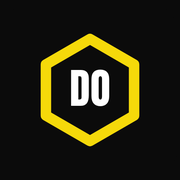
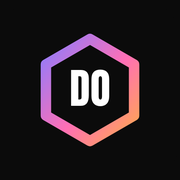
Brand palette 'Aurora': electric violet to pink to tangerine replaces the yellow
Claude-Session: https://claude.ai/code/session_01B44VbnWuYpjyJ8VHvCZvgG

Changed region(s): [[0.2222, 0.1667, 0.7778, 0.8333]]

diff --git a/css/styles.css b/css/styles.css
@@ -5,10 +5,10 @@
   --text: #0b0b0b;
   --muted: #5f5f58;
   --border: #e4e3dc;
-  --primary: #0b0b0b;
-  --primary-hover: #262626;
-  --primary-soft: rgba(245, 217, 10, .28);
-  --on-primary: #f5d90a;
+  --primary: #5b47ff;
+  --primary-hover: #4a36f0;
+  --primary-soft: rgba(91, 71, 255, .11);
+  --on-primary: #ffffff;
   --danger: #c0352b;
   --danger-soft: #fdeceb;
   --success: #15803d;
@@ -21,17 +21,17 @@
   --violet-soft: #efe7fe;
   --sidebar-bg: #ffffff;
   --sidebar-text: #262626;
-  --sidebar-active: rgba(245, 217, 10, .35);
-  --hero-from: #f5d90a;
-  --hero-to: #e5c700;
+  --sidebar-active: rgba(91, 71, 255, .1);
+  --hero-from: #8b7cff;
+  --hero-to: #ff6fb5;
   --shadow: 0 1px 2px rgba(15, 27, 42, .04), 0 2px 8px rgba(15, 27, 42, .05);
   --shadow-lg: 0 8px 28px rgba(15, 27, 42, .1);
   --radius: 18px;
-  --chart-line: #0b0b0b;
-  --brand-yellow: #f5d90a;
-  --logo-hex: #0b0b0b;
+  --chart-line: #5b47ff;
+  --brand-yellow: #5b47ff;
+  --logo-hex: #5b47ff;
   --logo-text: #0b0b0b;
-  --m-carbs-c: #d4a900;
+  --m-carbs-c: #1c7ed6;
   color-scheme: light;
 }
 
@@ -43,10 +43,10 @@
     --text: #f5f5f4;
     --muted: #a3a39e;
     --border: #2a2a2a;
-    --primary: #f5d90a;
-    --primary-hover: #ffe745;
-    --primary-soft: rgba(245, 217, 10, .13);
-    --on-primary: #0b0b0b;
+    --primary: #8b7cff;
+    --primary-hover: #a99dff;
+    --primary-soft: rgba(139, 124, 255, .13);
+    --on-primary: #ffffff;
     --danger: #f87171;
     --danger-soft: rgba(248, 113, 113, .13);
     --success: #4ade80;
@@ -59,15 +59,15 @@
     --violet-soft: rgba(183, 148, 246, .14);
     --sidebar-bg: #0f0f0f;
     --sidebar-text: #d6d6d3;
-    --sidebar-active: rgba(245, 217, 10, .13);
+    --sidebar-active: rgba(139, 124, 255, .13);
     --hero-from: #1d1d1d;
     --hero-to: #0b0b0b;
     --shadow: none;
     --shadow-lg: 0 10px 30px rgba(0, 0, 0, .45);
-    --chart-line: #f5d90a;
-    --logo-hex: #f5d90a;
+    --chart-line: #8b7cff;
+    --logo-hex: #8b7cff;
     --logo-text: #ffffff;
-    --m-carbs-c: #f5d90a;
+    --m-carbs-c: #5bc8ff;
     color-scheme: dark;
   }
 }
@@ -79,10 +79,10 @@
   --text: #f5f5f4;
   --muted: #a3a39e;
   --border: #2a2a2a;
-  --primary: #f5d90a;
-  --primary-hover: #ffe745;
-  --primary-soft: rgba(245, 217, 10, .13);
-  --on-primary: #0b0b0b;
+  --primary: #8b7cff;
+  --primary-hover: #a99dff;
+  --primary-soft: rgba(139, 124, 255, .13);
+  --on-primary: #ffffff;
   --danger: #f87171;
   --danger-soft: rgba(248, 113, 113, .13);
   --success: #4ade80;
@@ -95,15 +95,15 @@
   --violet-soft: rgba(183, 148, 246, .14);
   --sidebar-bg: #0f0f0f;
   --sidebar-text: #d6d6d3;
-  --sidebar-active: rgba(245, 217, 10, .13);
+  --sidebar-active: rgba(139, 124, 255, .13);
   --hero-from: #1d1d1d;
   --hero-to: #0b0b0b;
   --shadow: none;
   --shadow-lg: 0 10px 30px rgba(0, 0, 0, .45);
-  --chart-line: #f5d90a;
-  --logo-hex: #f5d90a;
+  --chart-line: #8b7cff;
+  --logo-hex: #8b7cff;
   --logo-text: #ffffff;
-  --m-carbs-c: #f5d90a;
+  --m-carbs-c: #5bc8ff;
   color-scheme: dark;
 }
 
@@ -156,7 +156,7 @@ h3 { font-size: 1rem; }
 .hexlogo .hx-in { fill: var(--logo-text); font: 400 36px/1 "Anton", "Barlow Condensed", Impact, sans-serif; letter-spacing: -.5px; }
 .brand-name { display: flex; flex-direction: column; min-width: 0; gap: 3px; }
 .brand-name > span { font: 400 1.3rem/1 "Anton", "Barlow Condensed", Impact, sans-serif; text-transform: uppercase; letter-spacing: .01em; white-space: nowrap; overflow: hidden; text-overflow: ellipsis; }
-.brand-name small { font: 700 .68rem/1.2 "Barlow Condensed", sans-serif; color: var(--brand-yellow, #f5d90a); letter-spacing: .32em; text-transform: uppercase; }
+.brand-name small { font: 700 .68rem/1.2 "Barlow Condensed", sans-serif; color: var(--brand-yellow, #8b7cff); letter-spacing: .32em; text-transform: uppercase; }
 :root[data-theme="light"] .brand-name small { color: var(--text); }
 @media (prefers-color-scheme: light) { :root:not([data-theme="dark"]) .brand-name small { color: var(--text); } }
 
@@ -609,7 +609,7 @@ dialog form { display: flex; flex-direction: column; max-height: calc(100vh - 48
 #toast.show { opacity: 1; transform: translateX(-50%) translateY(0); }
 #toast { display: flex; align-items: center; gap: 14px; width: max-content; }
 #toast.show.has-action { pointer-events: auto; }
-.toast-action { appearance: none; border: 0; background: none; color: #f5d90a; font: inherit; font-weight: 800; cursor: pointer; padding: 2px 4px; }
+.toast-action { appearance: none; border: 0; background: none; color: #8b7cff; font: inherit; font-weight: 800; cursor: pointer; padding: 2px 4px; }
 .btn.pay { white-space: nowrap; }
 
 .pay-row { display: flex; align-items: center; gap: 12px; }
@@ -908,7 +908,7 @@ body.q-page { min-height: 100vh; }
 
 /* ---------- Objetivos de la dieta ---------- */
 /* Colores de los macros: los mismos tonos de la app (turquesa, azul y violeta suaves). */
-:root { --m-carbs: var(--m-carbs-c, #f5d90a); --m-protein: var(--info); --m-fat: var(--violet); }
+:root { --m-carbs: var(--m-carbs-c, #8b7cff); --m-protein: var(--info); --m-fat: var(--violet); }
 .diet-panel { padding-top: 4px; padding-bottom: 4px; }
 .diet-sec { padding: 18px 0; }
 .diet-sec + .diet-sec { border-top: 1px solid var(--border); }
@@ -1038,7 +1038,7 @@ button.diet-row:hover { color: var(--primary); }
   body.printing #print-root { display: block; }
 }
 .ds {
-  --ds-navy: #0b0b0b; --ds-teal: #f5d90a; --ds-mint: #f5d90a; --ds-soft: #f1f7f6; --ds-ink: #1f2937; --ds-muted: #6b7280; --ds-line: #e5e7eb;
+  --ds-navy: #0b0b0b; --ds-teal: #8b7cff; --ds-mint: #8b7cff; --ds-soft: #f1f7f6; --ds-ink: #1f2937; --ds-muted: #6b7280; --ds-line: #e5e7eb;
   --ds-p: #2563eb; --ds-c: #0d9488; --ds-f: #7c3aed; --ds-x: #d97706;
   color: var(--ds-ink); font: 400 11pt/1.45 'Archivo', system-ui, sans-serif;
   -webkit-print-color-adjust: exact; print-color-adjust: exact;
@@ -1048,7 +1048,7 @@ button.diet-row:hover { color: var(--primary); }
 .ds-brand { display: flex; align-items: center; gap: 10px; }
 .ds-brand strong { display: block; font: 700 13pt/1.1 'Barlow Condensed', sans-serif; color: var(--ds-navy); }
 .ds-brand small { color: var(--ds-teal); font-weight: 700; letter-spacing: .14em; text-transform: uppercase; font-size: 7pt; }
-.ds-logo { width: 40px; height: 40px; display: grid; place-items: center; --logo-hex: #f5d90a; --logo-text: #fff; }
+.ds-logo { width: 40px; height: 40px; display: grid; place-items: center; --logo-hex: #8b7cff; --logo-text: #fff; }
 .ds-top { display: flex; justify-content: space-between; align-items: center; padding-bottom: 10px; border-bottom: 1px solid var(--ds-line); }
 .ds-client { color: var(--ds-muted); font-size: 9.5pt; font-weight: 600; }
 .ds-main { flex: 1; min-height: 0; display: flex; flex-direction: column; align-items: center; text-align: center; padding: 9mm 0 7mm; }
@@ -1079,7 +1079,7 @@ button.diet-row:hover { color: var(--primary); }
 .ds-page-n { font-weight: 700; color: var(--ds-teal); white-space: nowrap; }
 /* Portada */
 .ds-cover { background: var(--ds-navy); color: #fff; padding: 0; }
-.ds-cover-in { flex: 1; display: flex; flex-direction: column; padding: 22mm 22mm 18mm; background: radial-gradient(120mm 120mm at 100% 0%, rgba(245, 217, 10, .18), transparent 70%), radial-gradient(90mm 90mm at 0% 100%, rgba(245, 217, 10, .10), transparent 70%); }
+.ds-cover-in { flex: 1; display: flex; flex-direction: column; padding: 22mm 22mm 18mm; background: radial-gradient(120mm 120mm at 100% 0%, rgba(139, 124, 255, .18), transparent 70%), radial-gradient(90mm 90mm at 0% 100%, rgba(139, 124, 255, .10), transparent 70%); }
 .ds-cover .ds-brand strong { color: #fff; }
 .ds-cover .ds-brand small { color: var(--ds-mint); }
 .ds-cover .ds-logo { width: 58px; height: 58px; }
@@ -1090,7 +1090,7 @@ button.diet-row:hover { color: var(--primary); }
 .ds-cover-main p { margin: 0; color: #cbd5e1; font-size: 11pt; }
 .ds-index { list-style: none; margin: 0 0 14mm; padding: 0; display: grid; grid-template-columns: 1fr 1fr; gap: 8px 18px; }
 .ds-index li { display: flex; align-items: center; gap: 10px; padding: 9px 12px; border-radius: 10px; background: rgba(255, 255, 255, .06); border: 1px solid rgba(255, 255, 255, .1); font-weight: 600; }
-.ds-index span { width: 22px; height: 22px; border-radius: 7px; display: grid; place-items: center; background: rgba(245, 217, 10, .18); color: var(--ds-mint); font-size: 9pt; font-weight: 800; }
+.ds-index span { width: 22px; height: 22px; border-radius: 7px; display: grid; place-items: center; background: rgba(139, 124, 255, .18); color: var(--ds-mint); font-size: 9pt; font-weight: 800; }
 .ds-cover-note { margin: 0; color: #94a3b8; font-size: 8.5pt; }
 .ds-dense .ds-title { font-size: 36pt; }
 .ds-dense .ds-rule { margin: 3mm auto 5mm; }
@@ -1127,9 +1127,9 @@ button.diet-row:hover { color: var(--primary); }
 .ds-sparse .ds-glabel { font-size: 11pt; }
 /* Todas las hojas con el fondo de la portada (azul marino) y el logo en turquesa. */
 .ds-page {
-  background: radial-gradient(120mm 120mm at 100% 0%, rgba(245, 217, 10, .14), transparent 70%), radial-gradient(90mm 90mm at 0% 100%, rgba(245, 217, 10, .08), transparent 70%), var(--ds-navy);
+  background: radial-gradient(120mm 120mm at 100% 0%, rgba(139, 124, 255, .14), transparent 70%), radial-gradient(90mm 90mm at 0% 100%, rgba(139, 124, 255, .08), transparent 70%), var(--ds-navy);
   color: #e2e8f0;
-  --ds-p: #60a5fa; --ds-c: #f5d90a; --ds-f: #a78bfa; --ds-x: #fb923c;
+  --ds-p: #60a5fa; --ds-c: #8b7cff; --ds-f: #a78bfa; --ds-x: #fb923c;
 }
 .ds-page .ds-brand strong { color: #fff; }
 .ds-page .ds-brand small { color: var(--ds-mint); }
@@ -1142,7 +1142,7 @@ button.diet-row:hover { color: var(--primary); }
 .ds-page .ds-group { background: rgba(255, 255, 255, .05); border-color: rgba(255, 255, 255, .1); box-shadow: none; }
 .ds-page .ds-glabel { color: #94a3b8; }
 .ds-page .ds-glabel b { color: #fff; }
-.ds-page .ds-g { background: rgba(245, 217, 10, .12); color: #fff; }
+.ds-page .ds-g { background: rgba(139, 124, 255, .12); color: #fff; }
 .ds-page .ds-g small { color: #94a3b8; }
 .ds-page .ds-name { color: #f1f5f9; }
 .ds-page .ds-or::after { background: rgba(255, 255, 255, .1); }
@@ -1165,7 +1165,7 @@ button.diet-row:hover { color: var(--primary); }
 .ds-kpi span { display: block; color: #94a3b8; font-size: 9pt; font-weight: 700; letter-spacing: .12em; text-transform: uppercase; }
 .ds-kpi b { display: block; margin-top: 2mm; color: #fff; font: 700 30pt/1 'Barlow Condensed', sans-serif; }
 .ds-kpi b small { font: 600 10pt 'Archivo', sans-serif; color: #94a3b8; margin-left: 4px; }
-.ds-kpi-deficit { background: rgba(245, 217, 10, .12); border-color: rgba(245, 217, 10, .4); }
+.ds-kpi-deficit { background: rgba(139, 124, 255, .12); border-color: rgba(139, 124, 255, .4); }
 .ds-kpi-deficit b, .ds-kpi-deficit span { color: var(--ds-mint); }
 .ds-kpi-superavit { background: rgba(251, 191, 36, .12); border-color: rgba(251, 191, 36, .4); }
 .ds-kpi-superavit b, .ds-kpi-superavit span { color: #fbbf24; }
@@ -1178,7 +1178,7 @@ button.diet-row:hover { color: var(--primary); }
 .ds-table td b { color: #fff; font: 700 16pt 'Barlow Condensed', sans-serif; }
 .ds-table tfoot td { background: rgba(255, 255, 255, .05); font-weight: 700; color: #fff; }
 .ds-macrobar { display: flex; height: 12px; border-radius: 99px; overflow: hidden; margin: 6mm 0; gap: 3px; }
-.ds-plan-note { margin: 6mm 0 0; padding: 5mm 6mm; border-radius: 14px; background: rgba(245, 217, 10, .08); border-left: 4px solid var(--ds-mint); color: #e2e8f0; font-size: 12pt; line-height: 1.6; text-align: left; width: 100%; box-sizing: border-box; }
+.ds-plan-note { margin: 6mm 0 0; padding: 5mm 6mm; border-radius: 14px; background: rgba(139, 124, 255, .08); border-left: 4px solid var(--ds-mint); color: #e2e8f0; font-size: 12pt; line-height: 1.6; text-align: left; width: 100%; box-sizing: border-box; }
 .ds-plan-note b { color: var(--ds-mint); }
 .ds-plan-small { margin: 4mm 0 0; color: #94a3b8; font-size: 9pt; }
 .ds-plan { flex: 1; display: flex; flex-direction: column; justify-content: center; }
@@ -1257,7 +1257,7 @@ h1.display { font: 400 3.1rem/1.02 "Anton", "Barlow Condensed", Impact, sans-ser
   --info: #1c7ed6; --info-soft: rgba(28, 126, 214, .1);
   --violet: #7950f2; --violet-soft: rgba(121, 80, 242, .1);
   --pink: #d6336c; --pink-soft: rgba(214, 51, 108, .1);
-  --m-protein-c: #e8590c; --m-fat-c: #7950f2;
+  --m-protein-c: #e8590c; --m-fat-c: #0ca678;
   --wa: #12b886;
 }
 @media (prefers-color-scheme: dark) {
@@ -1268,7 +1268,7 @@ h1.display { font: 400 3.1rem/1.02 "Anton", "Barlow Condensed", Impact, sans-ser
     --info: #5bc8ff; --info-soft: rgba(91, 200, 255, .12);
     --violet: #b49cff; --violet-soft: rgba(180, 156, 255, .13);
     --pink: #ff8ac0; --pink-soft: rgba(255, 138, 192, .12);
-    --m-protein-c: #ff7a6b; --m-fat-c: #b49cff;
+    --m-protein-c: #ff7a6b; --m-fat-c: #5ee6a8;
     --wa: #3ddc97;
   }
 }
@@ -1279,7 +1279,7 @@ h1.display { font: 400 3.1rem/1.02 "Anton", "Barlow Condensed", Impact, sans-ser
   --info: #5bc8ff; --info-soft: rgba(91, 200, 255, .12);
   --violet: #b49cff; --violet-soft: rgba(180, 156, 255, .13);
   --pink: #ff8ac0; --pink-soft: rgba(255, 138, 192, .12);
-  --m-protein-c: #ff7a6b; --m-fat-c: #b49cff;
+  --m-protein-c: #ff7a6b; --m-fat-c: #5ee6a8;
   --wa: #3ddc97;
 }
 :root { --m-protein: var(--m-protein-c); --m-fat: var(--m-fat-c); }
@@ -1302,11 +1302,11 @@ h1.display { font: 400 3.1rem/1.02 "Anton", "Barlow Condensed", Impact, sans-ser
 .btn.wa-btn { color: var(--wa); border-color: color-mix(in srgb, var(--wa) 40%, var(--border)); }
 .btn.wa-btn:hover { background: color-mix(in srgb, var(--wa) 12%, transparent); }
 .btn.wa-solid { background: var(--wa); border-color: var(--wa); color: #0b0b0b; }
-.btn.light:hover { background: #fffbe0; }
+.btn.light:hover { background: #f1eeff; }
 /* Portada de la ficha del cliente con degradado de marca */
-.profile-cover { background: linear-gradient(110deg, color-mix(in srgb, #f5d90a 55%, var(--surface)) 0%, color-mix(in srgb, #ffa94d 45%, var(--surface)) 45%, color-mix(in srgb, #ff7a6b 40%, var(--surface)) 75%, color-mix(in srgb, #b49cff 35%, var(--surface)) 100%); }
+.profile-cover { background: linear-gradient(110deg, color-mix(in srgb, #8b7cff 60%, var(--surface)) 0%, color-mix(in srgb, #ff6fb5 50%, var(--surface)) 55%, color-mix(in srgb, #ffa94d 45%, var(--surface)) 100%); }
 /* PDF: macros en coral, amarillo y lila */
-.ds-page { --ds-p: #ff7a6b; --ds-c: #f5d90a; --ds-f: #b49cff; --ds-x: #ffa94d; }
+.ds-page { --ds-p: #ff7a6b; --ds-c: #5bc8ff; --ds-f: #5ee6a8; --ds-x: #ffa94d; }
 #proximos-pagos.has-items, #revisiones.has-items, #sin-rutina.has-items, #sin-dieta.has-items, #tareas-pendientes.has-items, #cuestionarios.has-items { border-color: color-mix(in srgb, var(--tone) 38%, var(--border)); box-shadow: inset 3px 0 0 var(--tone); }
 #proximos-pagos .count, #revisiones .count, #sin-rutina .count, #sin-dieta .count, #tareas-pendientes .count, #cuestionarios .count { background: var(--tone, var(--warning)); color: #141414; }
 /* Tarjetas de cifras: cada una con su color */
@@ -1317,3 +1317,15 @@ h1.display { font: 400 3.1rem/1.02 "Anton", "Barlow Condensed", Impact, sans-ser
 .stat:nth-child(4n+3) { --tone: var(--info); }
 .stat:nth-child(4n+4) { --tone: var(--violet); }
 .stat .stat-value { color: color-mix(in srgb, var(--tone, var(--text)) 70%, var(--text)); }
+
+/* ---------- Marca «Aurora»: violeta eléctrico → rosa → mandarina ---------- */
+:root { --brand-grad: linear-gradient(135deg, #8b7cff 0%, #ff6fb5 55%, #ffa94d 100%); }
+.hexlogo .hx { stroke: url(#dograd); }
+.brand-name small { background: var(--brand-grad); -webkit-background-clip: text; background-clip: text; color: transparent !important; }
+.ds-brand small { color: #ff8ac0 !important; background: none; }
+.btn.primary { background: linear-gradient(135deg, var(--primary) 0%, color-mix(in srgb, var(--primary) 55%, #ff6fb5) 100%); border-color: transparent; color: #fff; }
+.btn.primary:hover { background: linear-gradient(135deg, var(--primary-hover) 0%, color-mix(in srgb, var(--primary-hover) 45%, #ff6fb5) 100%); }
+.btn.primary .ico { color: #fff; }
+.page-header .eyebrow, .eyebrow { background: var(--brand-grad); -webkit-background-clip: text; background-clip: text; color: transparent; display: inline-block; }
+.ds-rule, .ds-cover .ds-rule { background: var(--brand-grad) !important; }
+.ds-tag { color: #ff8ac0 !important; }

diff --git a/index.html b/index.html
@@ -12,14 +12,14 @@
   <link rel="preconnect" href="https://fonts.googleapis.com">
   <link rel="preconnect" href="https://fonts.gstatic.com" crossorigin>
   <link href="https://fonts.googleapis.com/css2?family=Anton&family=Archivo:wght@400;500;600;700;800&family=Barlow+Condensed:wght@600;700;800&display=swap" rel="stylesheet">
-  <link rel="stylesheet" href="css/styles.css?v=2026.11.17-104">
+  <link rel="stylesheet" href="css/styles.css?v=2026.11.17-106">
 </head>
 <body>
   <div class="layout">
     <nav class="sidebar" id="sidebar" aria-label="Navegación principal">
       <button class="icon-btn menu-close" data-menu="close" aria-label="Cerrar menú"><span data-icon="close"></span></button>
       <a href="#/panel" class="brand" aria-label="Ir al resumen">
-        <span class="brand-logo"><svg class="hexlogo" viewBox="0 0 100 100" aria-hidden="true"><path class="hx" d="M50 6 88 28v44L50 94 12 72V28Z"/><text class="hx-in" x="50" y="63.5" text-anchor="middle">DO</text></svg></span>
+        <span class="brand-logo"><svg class="hexlogo" viewBox="0 0 100 100" aria-hidden="true"><defs><linearGradient id="dograd" x1="0" y1="0" x2="1" y2="1"><stop offset="0" stop-color="#8b7cff"/><stop offset=".55" stop-color="#ff6fb5"/><stop offset="1" stop-color="#ffa94d"/></linearGradient></defs><path class="hx" d="M50 6 88 28v44L50 94 12 72V28Z"/><text class="hx-in" x="50" y="63.5" text-anchor="middle">DO</text></svg></span>
         <span class="brand-name"><span>David Orihuela</span><small>Entrenador Online</small></span>
       </a>
       <div class="nav-main">
@@ -37,7 +37,7 @@
     </nav>
     <div class="content">
       <header class="topbar">
-        <a href="#/panel" class="topbar-brand" aria-label="Ir al resumen"><span class="brand-logo"><svg class="hexlogo" viewBox="0 0 100 100" aria-hidden="true"><path class="hx" d="M50 6 88 28v44L50 94 12 72V28Z"/><text class="hx-in" x="50" y="63.5" text-anchor="middle">DO</text></svg></span><span>David Orihuela</span></a>
+        <a href="#/panel" class="topbar-brand" aria-label="Ir al resumen"><span class="brand-logo"><svg class="hexlogo" viewBox="0 0 100 100" aria-hidden="true"><defs><linearGradient id="dograd" x1="0" y1="0" x2="1" y2="1"><stop offset="0" stop-color="#8b7cff"/><stop offset=".55" stop-color="#ff6fb5"/><stop offset="1" stop-color="#ffa94d"/></linearGradient></defs><path class="hx" d="M50 6 88 28v44L50 94 12 72V28Z"/><text class="hx-in" x="50" y="63.5" text-anchor="middle">DO</text></svg></span><span>David Orihuela</span></a>
         <button class="btn primary pill" data-action="new-client"><span data-icon="plus"></span><span class="pill-text"><span class="pill-long">Nuevo cliente</span><span class="pill-short">Nuevo</span></span></button>
         <button class="icon-btn bell sync-btn" data-sync="open" aria-label="Sincronización" title="Sincronización"><span data-icon="cloud"></span><span class="dot" id="sync-dot"></span></button>
         <button class="icon-btn menu-btn" data-menu="open" aria-label="Abrir menú" aria-controls="sidebar" aria-expanded="false"><span data-icon="menu"></span></button>
@@ -61,14 +61,14 @@
 
   <div id="toast" role="status" aria-live="polite"></div>
 
-  <script src="js/utils.js?v=2026.11.17-104"></script>
-  <script src="js/library-data.js?v=2026.11.17-104"></script>
-  <script src="js/foods-data.js?v=2026.11.17-104"></script>
-  <script src="js/store.js?v=2026.11.17-104"></script>
-  <script src="js/ui.js?v=2026.11.17-104"></script>
-  <script src="js/photos.js?v=2026.11.17-104"></script>
-  <script src="js/views.js?v=2026.11.17-104"></script>
-  <script src="js/app.js?v=2026.11.17-104"></script>
-  <script type="module" src="js/sync.js?v=2026.11.17-104"></script>
+  <script src="js/utils.js?v=2026.11.17-106"></script>
+  <script src="js/library-data.js?v=2026.11.17-106"></script>
+  <script src="js/foods-data.js?v=2026.11.17-106"></script>
+  <script src="js/store.js?v=2026.11.17-106"></script>
+  <script src="js/ui.js?v=2026.11.17-106"></script>
+  <script src="js/photos.js?v=2026.11.17-106"></script>
+  <script src="js/views.js?v=2026.11.17-106"></script>
+  <script src="js/app.js?v=2026.11.17-106"></script>
+  <script type="module" src="js/sync.js?v=2026.11.17-106"></script>
 </body>
 </html>

diff --git a/cuestionario.html b/cuestionario.html
@@ -24,12 +24,12 @@
   <link rel="preconnect" href="https://fonts.googleapis.com">
   <link rel="preconnect" href="https://fonts.gstatic.com" crossorigin>
   <link href="https://fonts.googleapis.com/css2?family=Anton&family=Archivo:wght@400;500;600;700;800&family=Barlow+Condensed:wght@600;700;800&display=swap" rel="stylesheet">
-  <link rel="stylesheet" href="css/styles.css?v=2026.11.17-104">
+  <link rel="stylesheet" href="css/styles.css?v=2026.11.17-106">
 </head>
 <body class="q-page">
   <main class="q-wrap">
     <header class="q-brand">
-      <span class="brand-logo"><svg class="hexlogo" viewBox="0 0 100 100" aria-hidden="true"><path class="hx" d="M50 6 88 28v44L50 94 12 72V28Z"/><text class="hx-in" x="50" y="63.5" text-anchor="middle">DO</text></svg></span>
+      <span class="brand-logo"><svg class="hexlogo" viewBox="0 0 100 100" aria-hidden="true"><defs><linearGradient id="dograd" x1="0" y1="0" x2="1" y2="1"><stop offset="0" stop-color="#8b7cff"/><stop offset=".55" stop-color="#ff6fb5"/><stop offset="1" stop-color="#ffa94d"/></linearGradient></defs><path class="hx" d="M50 6 88 28v44L50 94 12 72V28Z"/><text class="hx-in" x="50" y="63.5" text-anchor="middle">DO</text></svg></span>
       <span class="brand-name"><span>David Orihuela</span><small>Entrenador Online</small></span>
     </header>
     <p class="q-tagline">Lo simple funciona.</p>
@@ -37,6 +37,6 @@
       <p class="muted">Cargando el cuestionario…</p>
     </div>
   </main>
-  <script type="module" src="js/cuestionario.js?v=2026.11.17-104"></script>
+  <script type="module" src="js/cuestionario.js?v=2026.11.17-106"></script>
 </body>
 </html>

diff --git a/js/views.js b/js/views.js
@@ -1349,7 +1349,7 @@
     const afterPages = ['Plato saludable', supps.length ? 'Agua y suplementación' : 'Hidratación', notes ? 'Indicaciones' : null].filter(Boolean);
     const total = 1 + extraPages.length + meals.length + afterPages.length;
     const firstMeal = 2 + extraPages.length;
-    const brand = '<div class="ds-brand"><span class="ds-logo"><svg class="hexlogo" viewBox="0 0 100 100" aria-hidden="true"><path class="hx" d="M50 6 88 28v44L50 94 12 72V28Z"/><text class="hx-in" x="50" y="63.5" text-anchor="middle">DO</text></svg></span><span><strong>David Orihuela</strong><small>Entrenador Online</small></span></div>';
+    const brand = '<div class="ds-brand"><span class="ds-logo"><svg class="hexlogo" viewBox="0 0 100 100" aria-hidden="true"><defs><linearGradient id="dogradpdf" x1="0" y1="0" x2="1" y2="1"><stop offset="0" stop-color="#8b7cff"/><stop offset=".55" stop-color="#ff6fb5"/><stop offset="1" stop-color="#ffa94d"/></linearGradient></defs><path class="hx" style="stroke:url(#dogradpdf)" d="M50 6 88 28v44L50 94 12 72V28Z"/><text class="hx-in" x="50" y="63.5" text-anchor="middle">DO</text></svg></span><span><strong>David Orihuela</strong><small>Entrenador Online</small></span></div>';
     const top = `<header class="ds-top">${brand}<span class="ds-client">${esc(c.name)}</span></header>`;
     const foot = (n, txt) => `<footer class="ds-foot"><span>${txt || ''}</span><span class="ds-page-n">${n} / ${total}</span></footer>`;
     const optNote = 'Donde hay varias opciones, elige solo una: las cantidades ya son equivalentes.';

diff --git a/js/utils.js b/js/utils.js
@@ -135,7 +135,7 @@
 
   // Degradados de la paleta de la app (amarillo de marca, mandarina, coral, rosa, lila, cielo y menta).
   const AVATAR_COLORS = [
-    'linear-gradient(135deg, #f5d90a, #ffa94d)', 'linear-gradient(135deg, #ff8a7a, #ff5e8a)', 'linear-gradient(135deg, #5bc8ff, #8b9cff)',
+    'linear-gradient(135deg, #8b7cff, #ff6fb5)', 'linear-gradient(135deg, #ff8a7a, #ff5e8a)', 'linear-gradient(135deg, #5bc8ff, #8b9cff)',
     'linear-gradient(135deg, #6ee7b7, #3cc9c0)', 'linear-gradient(135deg, #c4a7ff, #f08cff)', 'linear-gradient(135deg, #ffc46b, #ff7a59)',
     'linear-gradient(135deg, #b8f05d, #3dd39a)', 'linear-gradient(135deg, #7cdaff, #5ee6a8)',
   ];

diff --git a/README.md b/README.md
@@ -2,7 +2,7 @@
 
 Aplicación web para gestionar los clientes de asesoría online: cuotas mensuales, progreso físico y cobros.
 
-Identidad: logo del hexágono «DO», amarillo (#F5D90A) y negro, tipografías Anton, Barlow Condensed y Archivo, y el lema «Lo simple funciona.» (app, cuestionario, PDF de la dieta, icono y vista previa de WhatsApp).
+Identidad: logo del hexágono «DO» en degradado violeta → rosa → mandarina sobre negro, con coral, cielo, menta y lila como colores de apoyo; tipografías Anton, Barlow Condensed y Archivo, y el lema «Lo simple funciona.» (app, cuestionario, PDF de la dieta, icono y vista previa de WhatsApp).
 
 ## Funcionalidades
 
@@ -23,7 +23,7 @@ Identidad: logo del hexágono «DO», amarillo (#F5D90A) y negro, tipografías A
 - **Bloques de equivalencia** (dentro de la biblioteca de alimentos): grupos de alimentos parecidos en macros y calorías (carnes magras, embutidos y fiambres, pescado blanco, huevos, lácteos con menos y con más grasa, quesos curados y en lonchas (cuentan como grasa), proteína en polvo, cereales, fruta, frutos secos…). Cada bloque tiene una cantidad de referencia (p. ej. 25 g de proteína) y la app calcula cuántos gramos de cada alimento la aportan. Se pueden editar y crear bloques nuevos.
 - **Ajustes**: tu nombre, moneda, cuota por defecto, tema oscuro/claro, exportar/importar copia de seguridad (JSON) y exportar clientes a CSV (Excel).
 
-- **Vista previa en WhatsApp**: al enviar el enlace del cuestionario, WhatsApp muestra una tarjeta negra y amarilla con tu logo, «Cuestionario inicial» y el lema (`img/og-cuestionario.jpg`, etiquetas Open Graph de `cuestionario.html`). La dirección de la imagen apunta a `https://aleuhiro7.github.io/Aplicacionweb/`; si publicas la app en otra dirección, cámbiala allí.
+- **Vista previa en WhatsApp**: al enviar el enlace del cuestionario, WhatsApp muestra una tarjeta negra con el degradado de la marca, tu logo, «Cuestionario inicial» y el lema (`img/og-cuestionario.jpg`, etiquetas Open Graph de `cuestionario.html`). La dirección de la imagen apunta a `https://aleuhiro7.github.io/Aplicacionweb/`; si publicas la app en otra dirección, cámbiala allí.
 
 ## Cómo usarla
 
